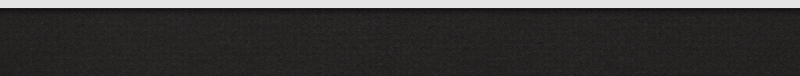
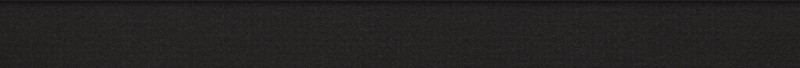
Fixing layout issues, typos, and misplaced tags

Changed region(s): [[0.0, 0.0, 1.0, 0.1176]]

diff --git a/source/stylesheets/style.css b/source/stylesheets/style.css
@@ -41,9 +41,8 @@ a:active, a:hover {
 }
 
 #footer {
-	border-top: 8px solid rgb(250,251,253);
 	background-image: url(../images/footer_bg.png);
-	height: 77px;
+	height: 68px;
 	color: #fff;
 	font-size: 13px;
 	font-weight: normal;
@@ -98,8 +97,10 @@ a:active, a:hover {
 	font-size: 16px;
 	font-weight: bold;
 	display: inline-block;
-	margin-top: 16px;
+	margin-top: 15px;
 	margin-left: 2px;
+	max-width: 230px;
+	max-height: 17px;
 }
 
 .infoContent {
@@ -180,7 +181,6 @@ a:active, a:hover {
 	width: 240px;
 	margin-bottom: 10px;
 	line-height: 18px;
-	text-shadow: 0 -1px 0 #4c9021;
 
 	background-color: #353431;
 	background-image: -webkit-linear-gradient(top, #53524d, #353431);
@@ -213,17 +213,17 @@ a:active, a:hover {
 
 .download-link:hover {
 	font-weight: normal;
-    background-color: #53524d;
+  background-color: #53524d;
 	background-image: -webkit-linear-gradient(top, #5e5d58, #53524d);
-    background-image: -moz-linear-gradient(top, #5e5d58, #53524d);
-    background-image: -ms-linear-gradient(top, #5e5d58, #53524d);
-    background-image: -o-linear-gradient(top, #5e5d58, #53524d);
-    background-image: linear-gradient(top, #5e5d58, #53524d);
-    -webkit-box-shadow: inset 0 1px 0 0 #85837c;
-    -moz-box-shadow: inset 0 1px 0 0 #8dbf67;
-    -ms-box-shadow: inset 0 1px 0 0 #8dbf67;
-    -o-box-shadow: inset 0 1px 0 0 #8dbf67;
-    cursor: pointer; 
+  background-image: -moz-linear-gradient(top, #5e5d58, #53524d);
+  background-image: -ms-linear-gradient(top, #5e5d58, #53524d);
+  background-image: -o-linear-gradient(top, #5e5d58, #53524d);
+  background-image: linear-gradient(top, #5e5d58, #53524d);
+  -webkit-box-shadow: inset 0 1px 0 0 #85837c;
+  -moz-box-shadow: inset 0 1px 0 0 #8dbf67;
+  -ms-box-shadow: inset 0 1px 0 0 #8dbf67;
+  -o-box-shadow: inset 0 1px 0 0 #8dbf67;
+  cursor: pointer; 
 }
 
 a.download-link {
@@ -247,17 +247,17 @@ a.download-link {
 
 .download-line-link:hover {
 	font-weight: normal;
-    background-color: #53524d;
+  background-color: #53524d;
 	background-image: -webkit-linear-gradient(top, #5e5d58, #53524d);
-    background-image: -moz-linear-gradient(top, #5e5d58, #53524d);
-    background-image: -ms-linear-gradient(top, #5e5d58, #53524d);
-    background-image: -o-linear-gradient(top, #5e5d58, #53524d);
-    background-image: linear-gradient(top, #5e5d58, #53524d);
-    -webkit-box-shadow: inset 0 1px 0 0 #85837c;
-    -moz-box-shadow: inset 0 1px 0 0 #8dbf67;
-    -ms-box-shadow: inset 0 1px 0 0 #8dbf67;
-    -o-box-shadow: inset 0 1px 0 0 #8dbf67;
-    cursor: pointer; 
+  background-image: -moz-linear-gradient(top, #5e5d58, #53524d);
+  background-image: -ms-linear-gradient(top, #5e5d58, #53524d);
+  background-image: -o-linear-gradient(top, #5e5d58, #53524d);
+  background-image: linear-gradient(top, #5e5d58, #53524d);
+  -webkit-box-shadow: inset 0 1px 0 0 #85837c;
+  -moz-box-shadow: inset 0 1px 0 0 #8dbf67;
+  -ms-box-shadow: inset 0 1px 0 0 #8dbf67;
+  -o-box-shadow: inset 0 1px 0 0 #8dbf67;
+  cursor: pointer; 
 }
 
 a.download-line-link {
@@ -269,6 +269,11 @@ a.download-line-link {
 	color: white;
 	font-size: 13px;
 	font-weight: normal;
+}
+
+.download-git-padding {
+	padding-top: 4px;
+	padding-bottom: 4px;
 }
 
 a.GPG {
